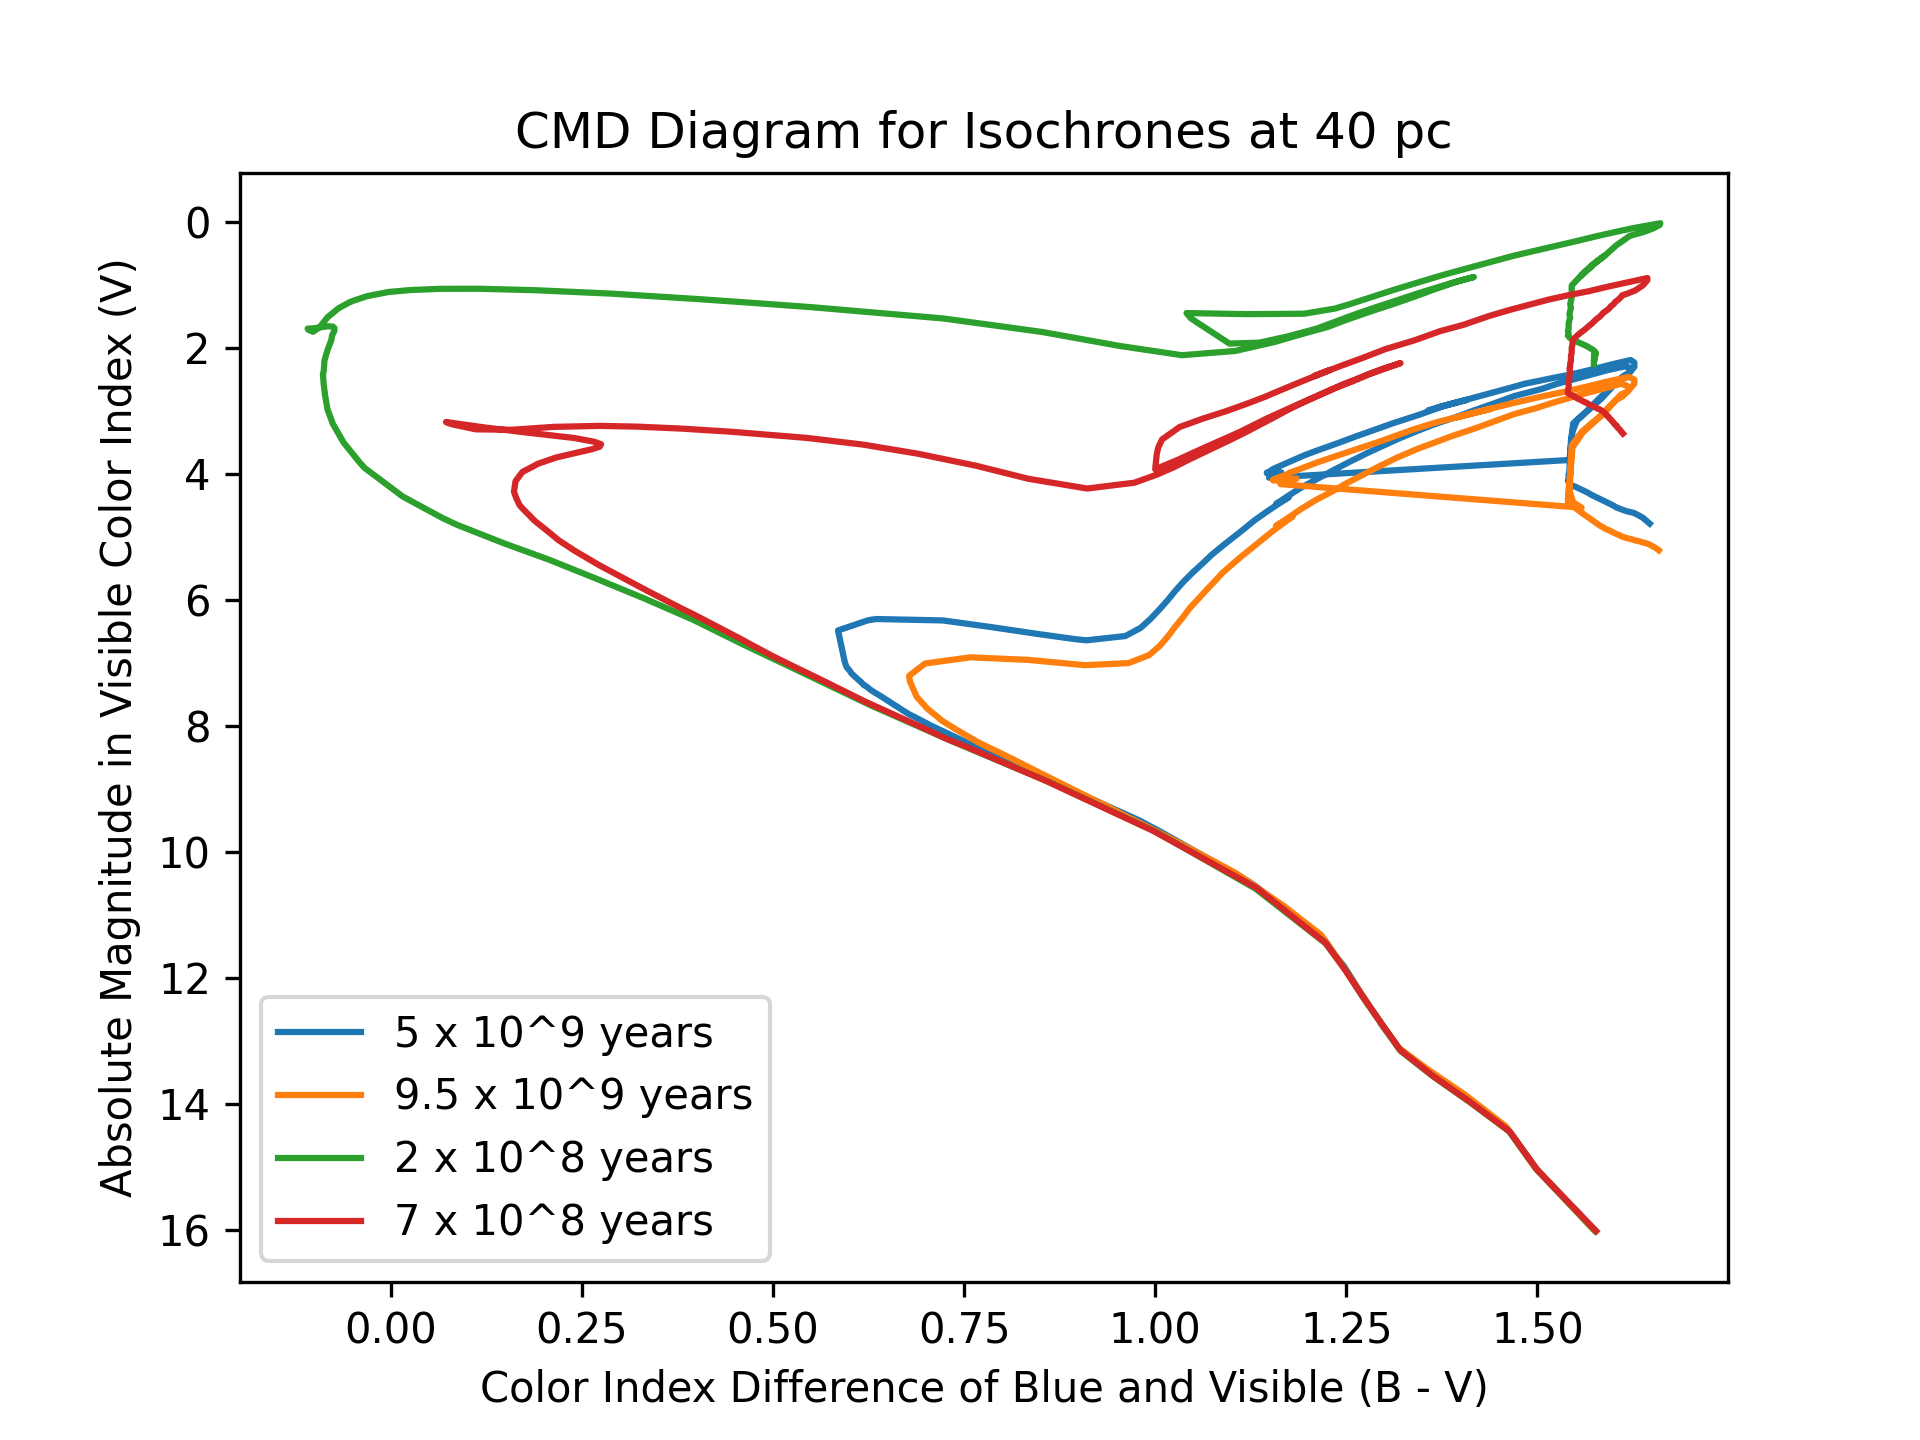
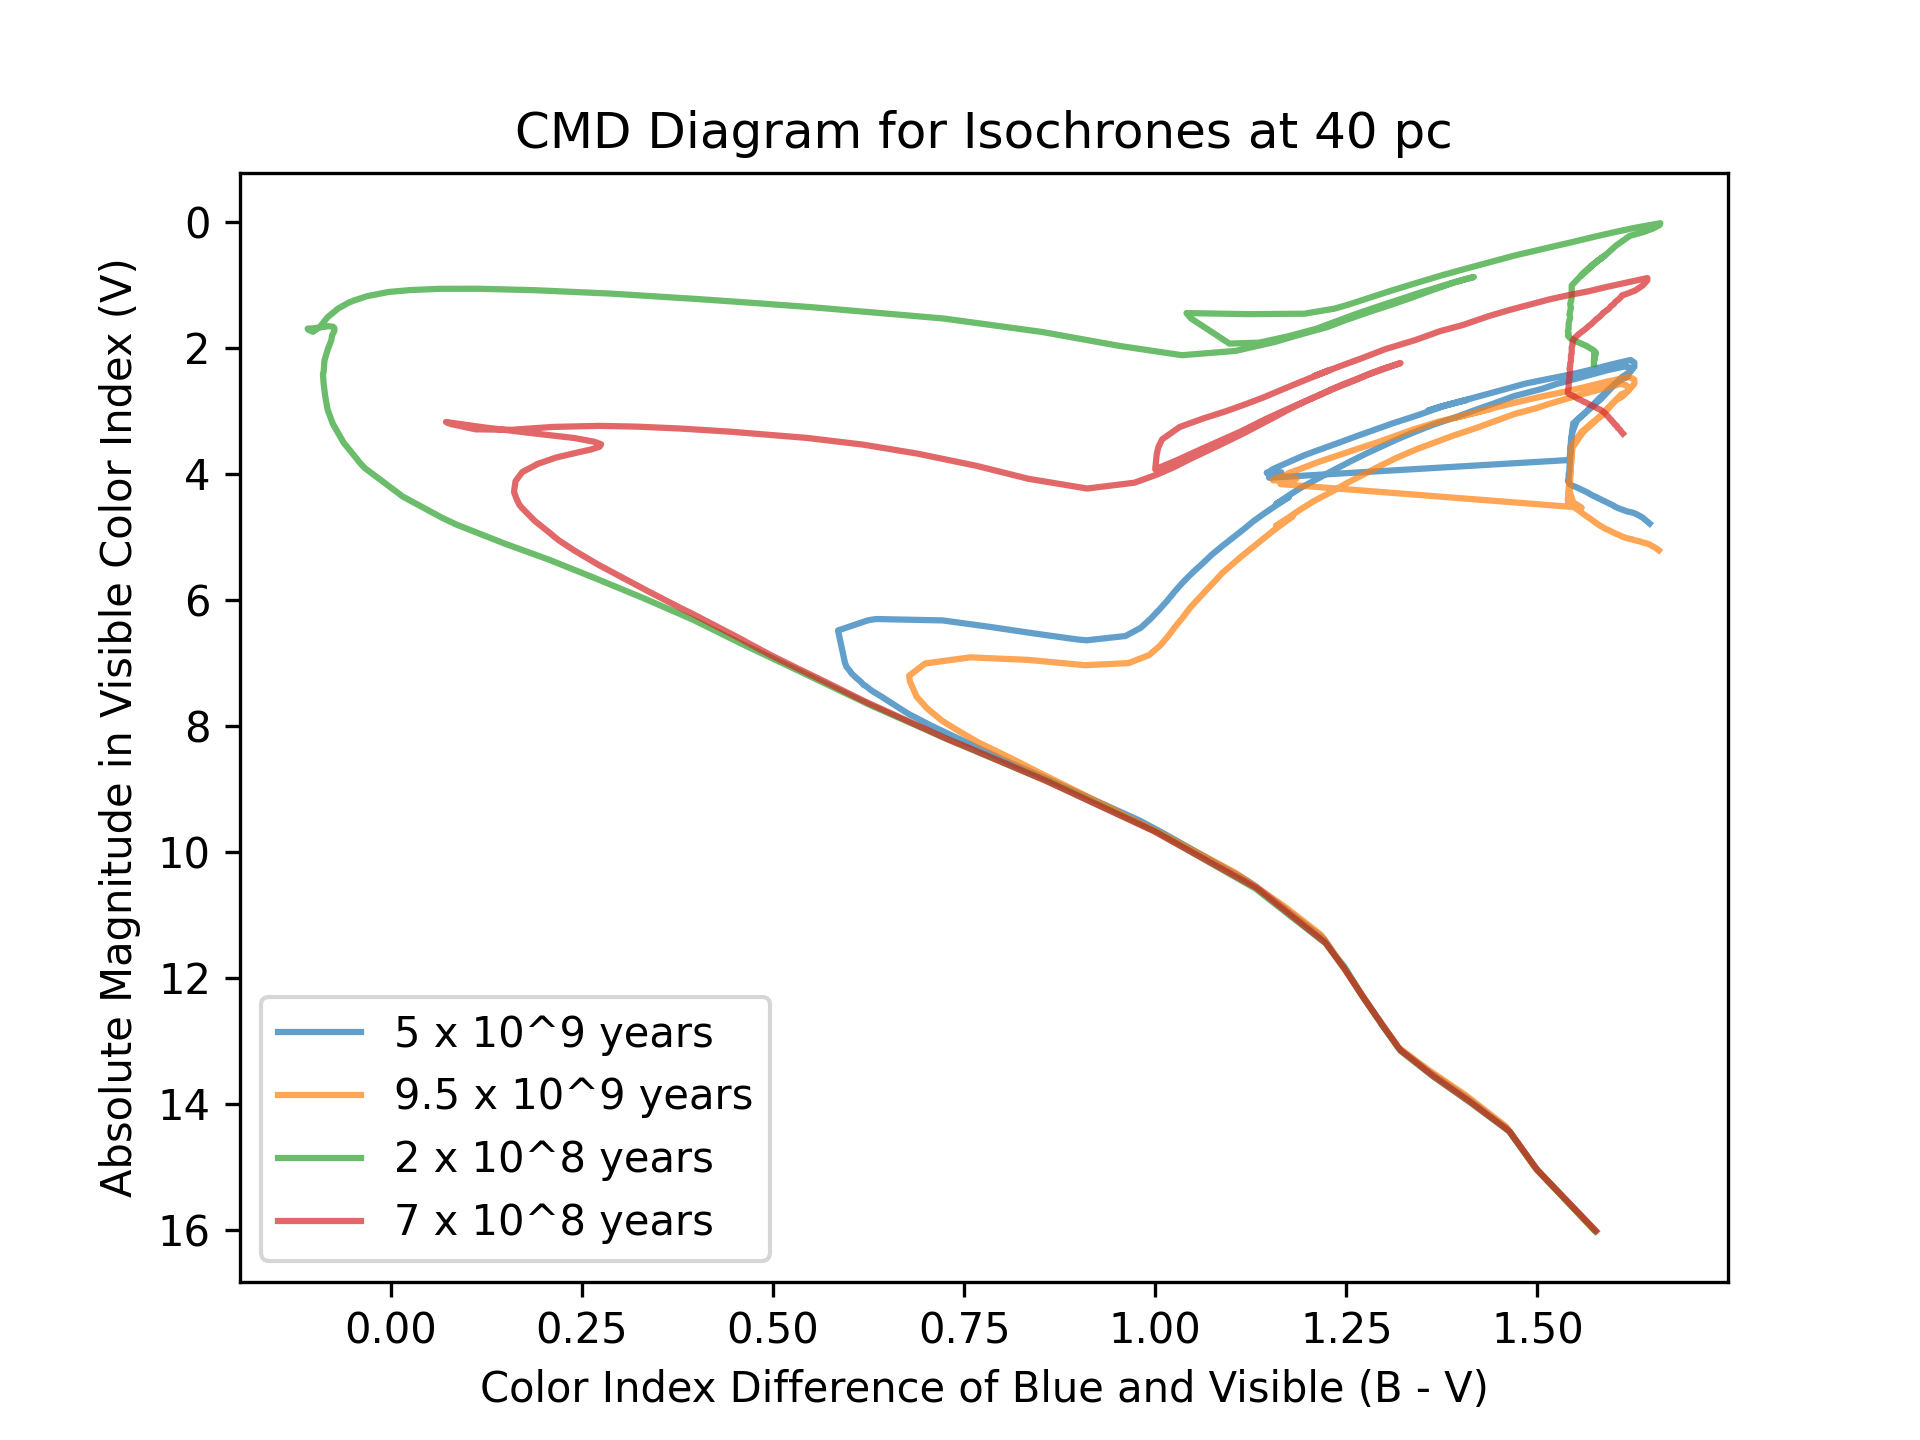
Images for generation of error

diff --git a/BO_AC_4/part2.py b/BO_AC_4/part2.py
@@ -23,7 +23,7 @@ def plot_isoc(b_abs, v_abs, label_in, distance):
     # Using the distance modulus formula:
     b_app = 5*np.log10(distance) - 5 + b_abs
     v_app = 5*np.log10(distance) - 5 + v_abs
-    plt.plot(b_app - v_app, v_app, label=label_in)
+    plt.plot(b_app - v_app, v_app, label=label_in, alpha=0.7)
 
 # Plot for Isochrones
 plt.figure()
@@ -72,8 +72,7 @@ plt.legend()
 plt.gcf().savefig(fname="BO_AC_4/images/Isochrones_40pc.png", dpi=300)
 plt.show()
 
-
-# PLOT FOR M45:
+# PLOT FOR M45 WITH MULTIPLE ISOCHRONES:
 
 plt.figure()
 
@@ -84,7 +83,74 @@ distance_m45 = 132.5 # uncertainty of 7.5
 plt.scatter(m45['B'] - m45['V'], m45['V'], s=[4], label="M45", alpha=0.44, color="orange")
 
 # Age for M45 (found through guess and check aligning turn-off point):
+m45iso = isochrones['e8']['one']
+m45iso_B = np.array(m45iso['B'])
+m45iso_V = np.array(m45iso['V'])
+plot_isoc(m45iso_B, m45iso_V, "1 x 10^8 years", distance_m45)
+
 plot_isoc(age2e8_B, age2e8_V, "2 x 10^8 years", distance_m45)
+
+m45iso = isochrones['e8']['three']
+m45iso_B = np.array(m45iso['B'])
+m45iso_V = np.array(m45iso['V'])
+plot_isoc(m45iso_B, m45iso_V, "3 x 10^8 years", distance_m45)
+
+
+plt.gca().invert_yaxis() # smaller V is brighter
+plt.title("Comparison of Reasonable Isochrone Ages to M45")
+plt.xlabel("Color Index Difference of Blue and Visible (B - V)")
+plt.ylabel("Apparent Magnitude in Visible Color Index (V)")
+
+plt.legend()
+plt.gcf().savefig(fname="BO_AC_4/images/M45_Multiple.png", dpi=300)
+plt.show()
+
+# PLOT FOR M45 COMPARING DISTANCES:
+
+plt.figure()
+
+# Scatter plot for data for M45
+plt.scatter(m45['B'] - m45['V'], m45['V'], s=[4], label="M45", alpha=0.44, color="orange")
+
+
+# Distance for M45:
+distance_m45 = 125
+
+# Age for M45 (found through guess and check aligning turn-off point):
+plot_isoc(age2e8_B, age2e8_V, "125 pc", distance_m45)
+
+distance_m45 = 132.5
+
+# Age for M45 (found through guess and check aligning turn-off point):
+plot_isoc(age2e8_B, age2e8_V, "132.5 pc", distance_m45)
+
+distance_m45 = 140
+
+# Age for M45 (found through guess and check aligning turn-off point):
+plot_isoc(age2e8_B, age2e8_V, "140 pc", distance_m45)
+
+
+plt.gca().invert_yaxis() # smaller V is brighter
+plt.title("Comparison of Reasonable Distances for M45")
+plt.xlabel("Color Index Difference of Blue and Visible (B - V)")
+plt.ylabel("Apparent Magnitude in Visible Color Index (V)")
+
+plt.legend()
+plt.gcf().savefig(fname="BO_AC_4/images/M45_Distances.png", dpi=300)
+plt.show()
+
+# FINAL PLOT FOR M45:
+
+plt.figure()
+
+# Distance for M45 (found through guess and check aligning the main sequence):
+distance_m45 = 132.5 # uncertainty of 7.5
+
+# Scatter plot for data for M45
+plt.scatter(m45['B'] - m45['V'], m45['V'], s=[4], label="M45", alpha=0.44, color="orange")
+
+# Age for M45 (found through guess and check aligning turn-off point):
+plot_isoc(age2e8_B, age2e8_V, "2 x 10^8 years, 132.5 pc", distance_m45)
 
 
 plt.gca().invert_yaxis() # smaller V is brighter
@@ -96,7 +162,72 @@ plt.legend()
 plt.gcf().savefig(fname="BO_AC_4/images/M45_Fit.png", dpi=300)
 plt.show()
 
-# PLOT FOR M67:
+# PLOT FOR M67 WITH MULTIPLE ISOCHRONES:
+
+plt.figure()
+
+# Distance for M67 (found through guess and check aligning the main sequence):
+distance_m67 = 850 # uncertainty of +/- 100 parsecs
+
+# Scatter plot for data for M67
+plt.scatter(m67['B'] - m67['V'], m67['V'], s=[4], label="M67", alpha=0.33, color="orange")
+
+# Age for M67 (found through guess and check aligning turn-off point): uncertainty of +/- 5 x 10^8 years
+m67iso = isochrones['e9']['two']
+m67iso_B = np.array(m67iso['B'])
+m67iso_V = np.array(m67iso['V'])
+plot_isoc(m67iso_B, m67iso_V, "2 x 10^9 years", distance_m67)
+
+m67iso = isochrones['e9']['three']
+m67iso_B = np.array(m67iso['B'])
+m67iso_V = np.array(m67iso['V'])
+plot_isoc(m67iso_B, m67iso_V, "3 x 10^9 years", distance_m67)
+
+m67iso = isochrones['e9']['four']
+m67iso_B = np.array(m67iso['B'])
+m67iso_V = np.array(m67iso['V'])
+plot_isoc(m67iso_B, m67iso_V, "4 x 10^9 years", distance_m67)
+
+plt.gca().invert_yaxis() # smaller V is brighter
+plt.title("Comparison of Reasonable Isochrone Ages for M67")
+plt.xlabel("Color Index Difference of Blue and Visible (B - V)")
+plt.ylabel("Apparent Magnitude in Visible Color Index (V)")
+
+plt.legend()
+plt.gcf().savefig(fname="BO_AC_4/images/M67_Multiple.png", dpi=300)
+plt.show()
+
+# PLOT FOR M67 WITH DIFFERENT AGES:
+
+plt.figure()
+
+# Scatter plot for data for M67
+plt.scatter(m67['B'] - m67['V'], m67['V'], s=[4], label="M67", alpha=0.33, color="orange")
+
+# Age for M67 (found through guess and check aligning turn-off point): uncertainty of +/- 5 x 10^8 years
+m67iso = isochrones['e9']['three']
+m67iso_B = np.array(m67iso['B'])
+m67iso_V = np.array(m67iso['V'])
+
+distance_m67 = 750
+plot_isoc(m67iso_B, m67iso_V, "750 pc", distance_m67)
+
+distance_m67 = 850
+plot_isoc(m67iso_B, m67iso_V, "850 pc", distance_m67)
+
+distance_m67 = 950
+plot_isoc(m67iso_B, m67iso_V, "950 pc", distance_m67)
+
+plt.gca().invert_yaxis() # smaller V is brighter
+plt.title("Comparison of Reasonable Distances for M67")
+plt.xlabel("Color Index Difference of Blue and Visible (B - V)")
+plt.ylabel("Apparent Magnitude in Visible Color Index (V)")
+
+plt.legend()
+plt.gcf().savefig(fname="BO_AC_4/images/M67_Distances.png", dpi=300)
+plt.show()
+
+# FINAL PLOT FOR M67:
 
 plt.figure()
 
@@ -110,7 +241,7 @@ plt.scatter(m67['B'] - m67['V'], m67['V'], s=[4], label="M67", alpha=0.33, color
 m67iso = isochrones['e9']['three']
 m67iso_B = np.array(m67iso['B'])
 m67iso_V = np.array(m67iso['V'])
-plot_isoc(m67iso_B, m67iso_V, "3 x 10^9 years", distance_m67)
+plot_isoc(m67iso_B, m67iso_V, "3 x 10^9 years, 850 pc", distance_m67)
 
 plt.gca().invert_yaxis() # smaller V is brighter
 plt.title("CMD Diagram for M67 and Isochrone")
